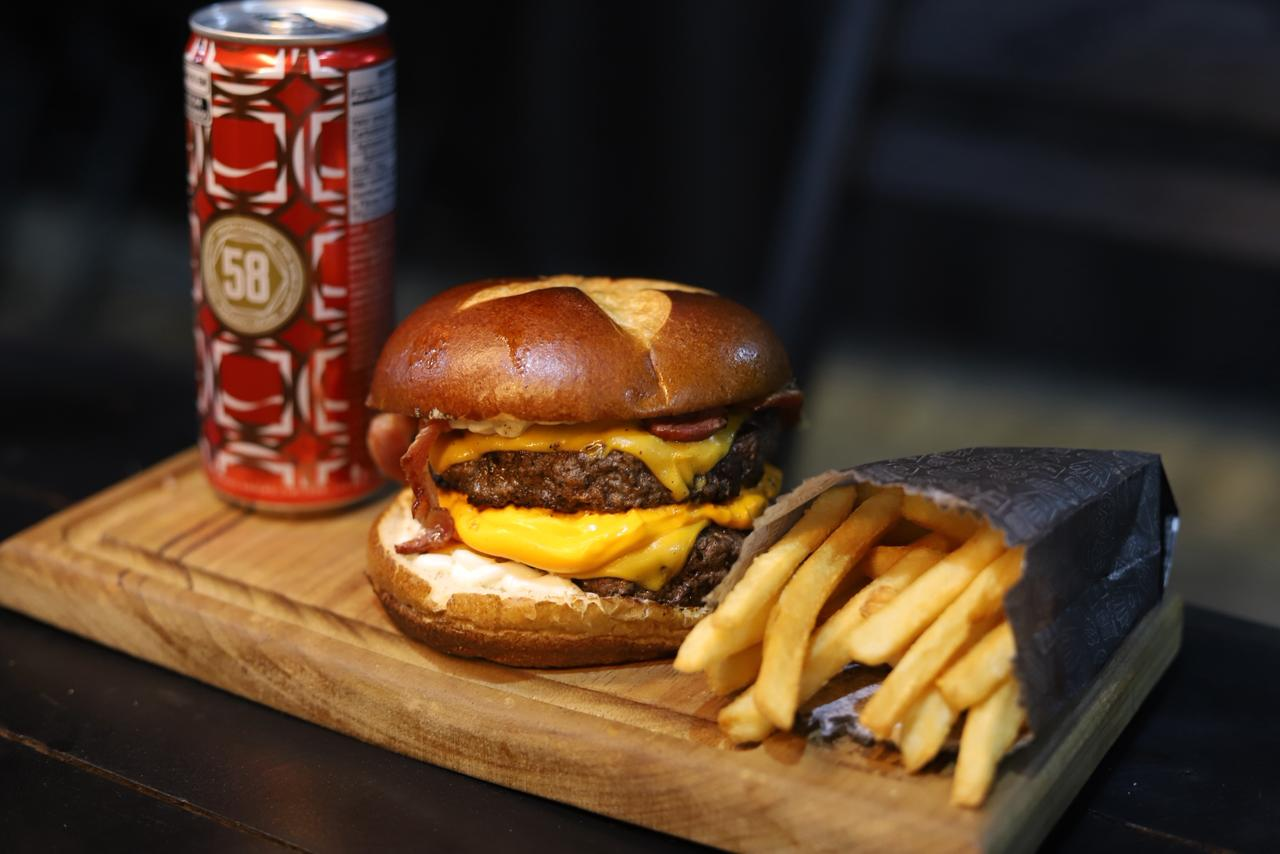
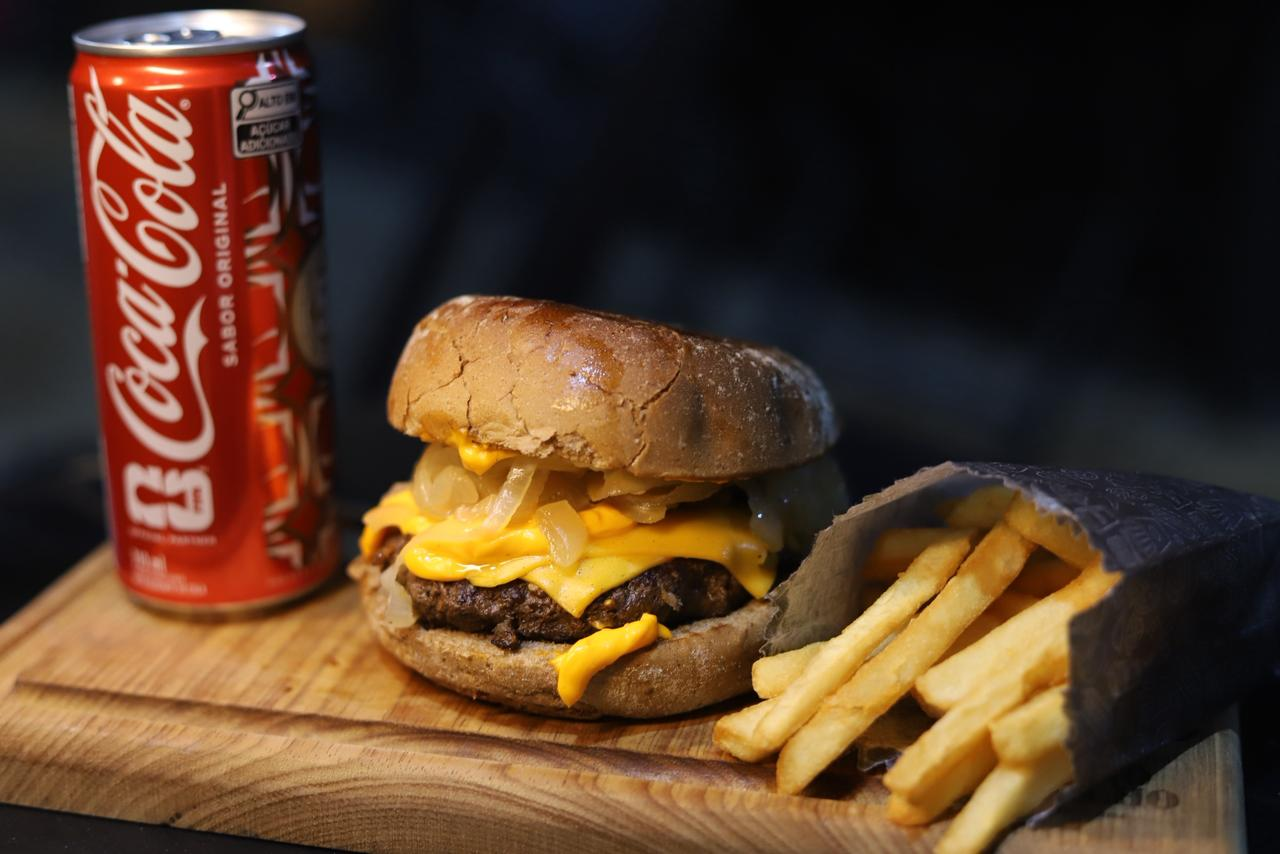
Ajusta tamanho do texto e foto na seção Sobre

diff --git a/index.html b/index.html
@@ -457,6 +457,12 @@
 
   [data-reveal]{ opacity:0; transform:translateY(28px); filter:blur(6px); transition:opacity .8s ease, transform .8s ease, filter .8s ease; }
   [data-reveal].in{ opacity:1; transform:translateY(0); filter:blur(0); }
+
+  /* ---------- AJUSTES SÓ PARA DESKTOP/NOTEBOOK (não afeta celular) ---------- */
+  @media (min-width:901px){
+    .about p.body-text{ font-size:clamp(22px,1.9vw,26px); line-height:1.7; max-width:20ch; }
+    .about-tagline{ font-size:clamp(32px,3.2vw,44px); }
+  }
 </style>
 </head>
 <body>
@@ -512,8 +518,8 @@
       </div>
       <div class="gallery-grid" data-gallery="divino-burguer">
         <img src="/WhatsApp Image 2026-08-30 at 23.32.25.jpeg" alt="Divino Burguer - foto 1" loading="lazy">
-        <img src="/WhatsApp Image 2026-08-30 at 23.32.25.jpeg" alt="Divino Burguer - foto 2" loading="lazy">
-        <img src="/WhatsApp Image 2026-08-30 at 23.32.25 (1).jpeg" alt="Divino Burguer - foto 3" loading="lazy">
+        <img src="/WhatsApp Image 2026-08-30 at 23.32.25 (1).jpeg" alt="Divino Burguer - foto 2" loading="lazy">
+        <img src="/WhatsApp Image 2026-08-30 at 23.32.25 (2).jpeg" alt="Divino Burguer - foto 3" loading="lazy">
       </div>
       <a class="view-link" href="https://drive.google.com/drive/folders/1zWVaHAbrTXAwbkHe2_Aes8QTTRb2BDzD" target="_blank" rel="noopener">↳ Ver todas as fotos</a>
     </div>
